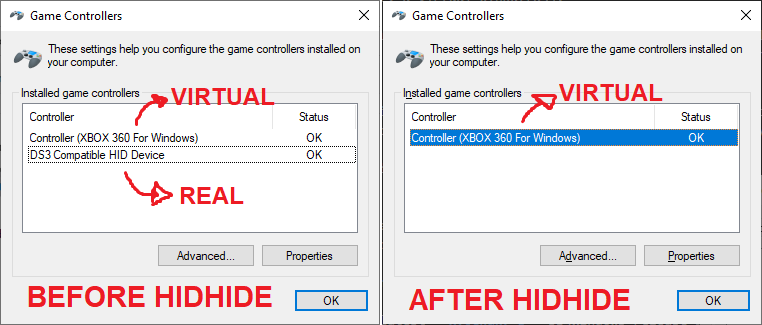
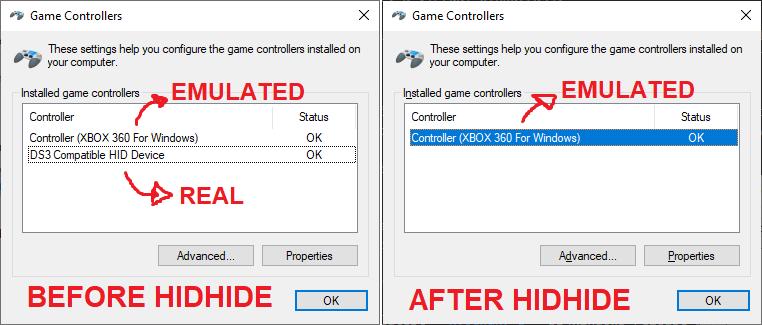
Changed used term from "virtual" to "emulated" and other minor tweaks

Changed region(s): [[0.2113, 0.2462, 0.4226, 0.3385], [0.7244, 0.2462, 0.9357, 0.3077]]

diff --git a/docs/projects/HidHide/Simple-Setup-Guide.md b/docs/projects/HidHide/Simple-Setup-Guide.md
@@ -4,17 +4,17 @@
 
 ## What is HidHide
 
-HidHide is a filter driver than can "hide" Gamepads/joysticks devices, ensuring Windows and other applications stop detecting it as a game controller and allowing only chosen applications to see them. Specially useful when the user is remapping a real controller into a virtual one.
+HidHide is a filter driver than can "hide" Gamepads/joysticks devices, ensuring Windows and other applications stop detecting it as a game controller and allowing only chosen applications to see them. Specially useful when the user is remapping a real controller into an emulated one.
 
 ![BeforeAfterHidHide](images/BeforeAfterHidHide.png){: .glightbox }
 
 ## Why one might need it
 
-You don't understand how that could be useful? Imagine the following scenario: you have a Generic Gamepad that you want to _convert_ into a __XInput Device__ (a Xbox 360 controller) or DualShock 4, since most games are already pre-configured to these controllers or maybe your game doesn't even detect your controller as it is. So you start using a remapping program ( [x360ce](https://www.x360ce.com/) / [XOutput](https://github.com/csutorasa/XOutput) / [UCR](https://github.com/Snoothy/UCR) / etc ) to do so.
+You don't understand how that could be useful? Imagine the following scenario: you have a generic gamepad that you want to _"convert"_ into a __XInput Device__ (a Xbox 360 controller) or DualShock 4, since most games are already pre-configured to these controllers, or maybe your game doesn't even detect your generic one as it is. So you start using a remapping program ( [x360ce](https://www.x360ce.com/) / [XOutput](https://github.com/csutorasa/XOutput) / [UCR](https://github.com/Snoothy/UCR) / etc ) to do so.
 
-This put you in a problematic situation: you don't end-up ___just___ with the virtual controller that you want to use. No no, you end-up with 2 controllers: the real and the virtual one.
+This put you in a problematic situation: you don't end-up ___just___ with the emulated controller that you want to use. No no, you end-up with 2 controllers: the real and the emulated one.
 
-If the games you are playing don't even detect your real controller, then all good. The issue starts when the game detects both real and virtual controllers while you only want it to recognize the virtual one. Since most games auto-detect controllers, the game will think there are 2 separate controllers connected, leading to the famous Double-Input and mis-input issue. Examples:
+If the games you are playing don't even detect your real controller, then all good. The issue starts when the game detects both real and emulated controllers while you only want it to recognize the latter. Since most games auto-detect controllers, the game will think there are 2 separate controllers connected, leading to the famous Double-Input and mis-input issue. Examples:
 
 - Rocket league will start 2 player mode randomly
 - Blasphemous will switch randomly between generic and XInput/DS4 button icons
@@ -23,7 +23,7 @@ If the games you are playing don't even detect your real controller, then all go
 This issue can be solved by using HidHide to:
 
 - Hide the real controller
-- Only allow the remapping tool of your choice to see the controller, since it needs to pick its input to translate them to the Virtual one 
+- Only allow the remapping tool of your choice to see the controller, since it needs to pick its input to translate them to the emulated one 
 
 ## Verifying if HidGuardian is installed and uninstalling it
 
@@ -92,7 +92,7 @@ Now that your controllers are hidden, you need to select which applications shou
 - Repeat the step above for each application that should whitelisted
 - After that, fully close then reopen your application (in case it was running) for it to detect the hidden devices. Alternatively, just reconnect your controllers.
 
-From this point, the applications on the list should be able to detect the hidden devices. The image below is an example of the application "UCR" being able to see a hidden Controller and creating a Virtual DS4: 
+From this point, the applications on the list should be able to detect the hidden devices. The image below is an example of the application "UCR" being able to see a hidden Controller and emulating a DualShock 4: 
 ![HidHideExampleSetup](images/HidHideClient_ExampleSetup.png){: .glightbox }
 
 !!! important "Users of DS4Windows: PAY ATTENTION!"
